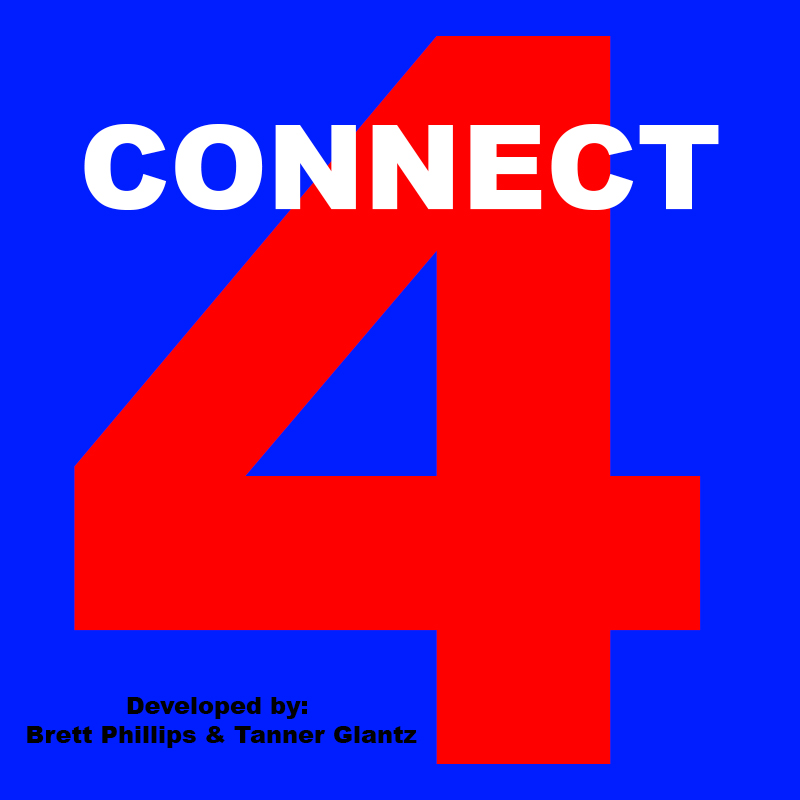
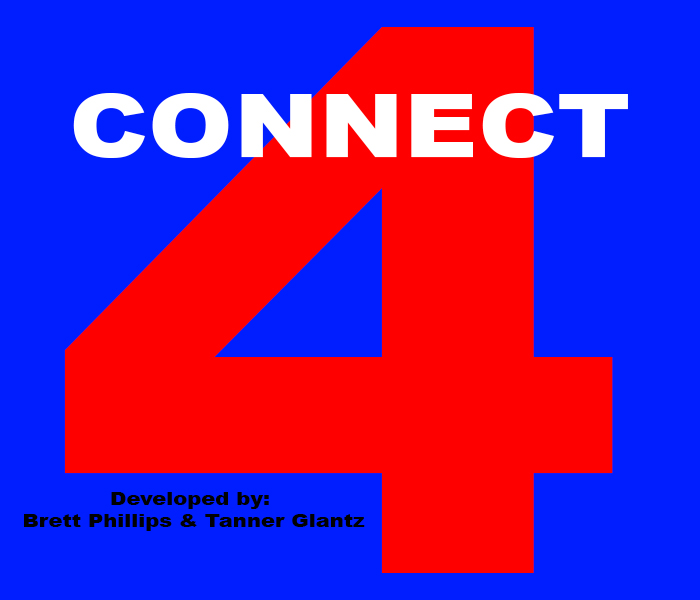
Updated startup

diff --git a/StartUp.java b/StartUp.java
@@ -1,17 +1,14 @@
 import javax.swing.*;
 import java.awt.*;
 import java.util.*;
-import java.io.*;
-import javax.imageio.*;
 import java.awt.event.*;
 
 public class StartUp extends JFrame implements ActionListener
 {
-   private Image image = null;
-   private JLabel labelOne = null;
    private JButton start = null;
-   private JButton about = null;
    private JPanel panel = null;
+   private JPanel panelTwo = null;
+   private Icon aPic = new ImageIcon("startup.jpg");
       
    public static void main(String [] args)
    {
@@ -21,28 +18,36 @@ public class StartUp extends JFrame implements ActionListener
    public StartUp()
    {
       JFrame frame = new JFrame();
-      frame.setSize(800, 800);
+      frame.setSize(700, 600);
       frame.setTitle("Connect 4");
       frame.setLocationRelativeTo(null);
       frame.setResizable(false);
       frame.setDefaultCloseOperation(JFrame.EXIT_ON_CLOSE);
-
-      Icon aPic = new ImageIcon("startup.jpg");
-      
-      labelOne = new JLabel(aPic);
-      labelOne.setLayout(new BorderLayout());
-      
-      panel = new JPanel(new FlowLayout());
             
+      panel = new JPanel(new BorderLayout());
+      panel.add(new StartUpInner());
+      frame.add(panel);
+            
+      panelTwo = new JPanel(new FlowLayout());
       start = new JButton("Start");
       start.addActionListener(this);
-      panel.add(start);
-      
-      labelOne.add(panel, BorderLayout.SOUTH);
-      
-      frame.add(labelOne);
-      
+      panelTwo.add(start);
+      frame.add(panelTwo, BorderLayout.SOUTH);
+                  
       frame.setVisible(true);  
+   }
+   
+   class StartUpInner extends JPanel
+   {
+      public StartUpInner()
+      {
+      }
+      
+      protected void paintComponent(Graphics g)
+      {
+         super.paintComponent(g);
+         aPic.paintIcon(this, g, 0, 0); 
+      }
    }
    
    public void actionPerformed(ActionEvent ae)
